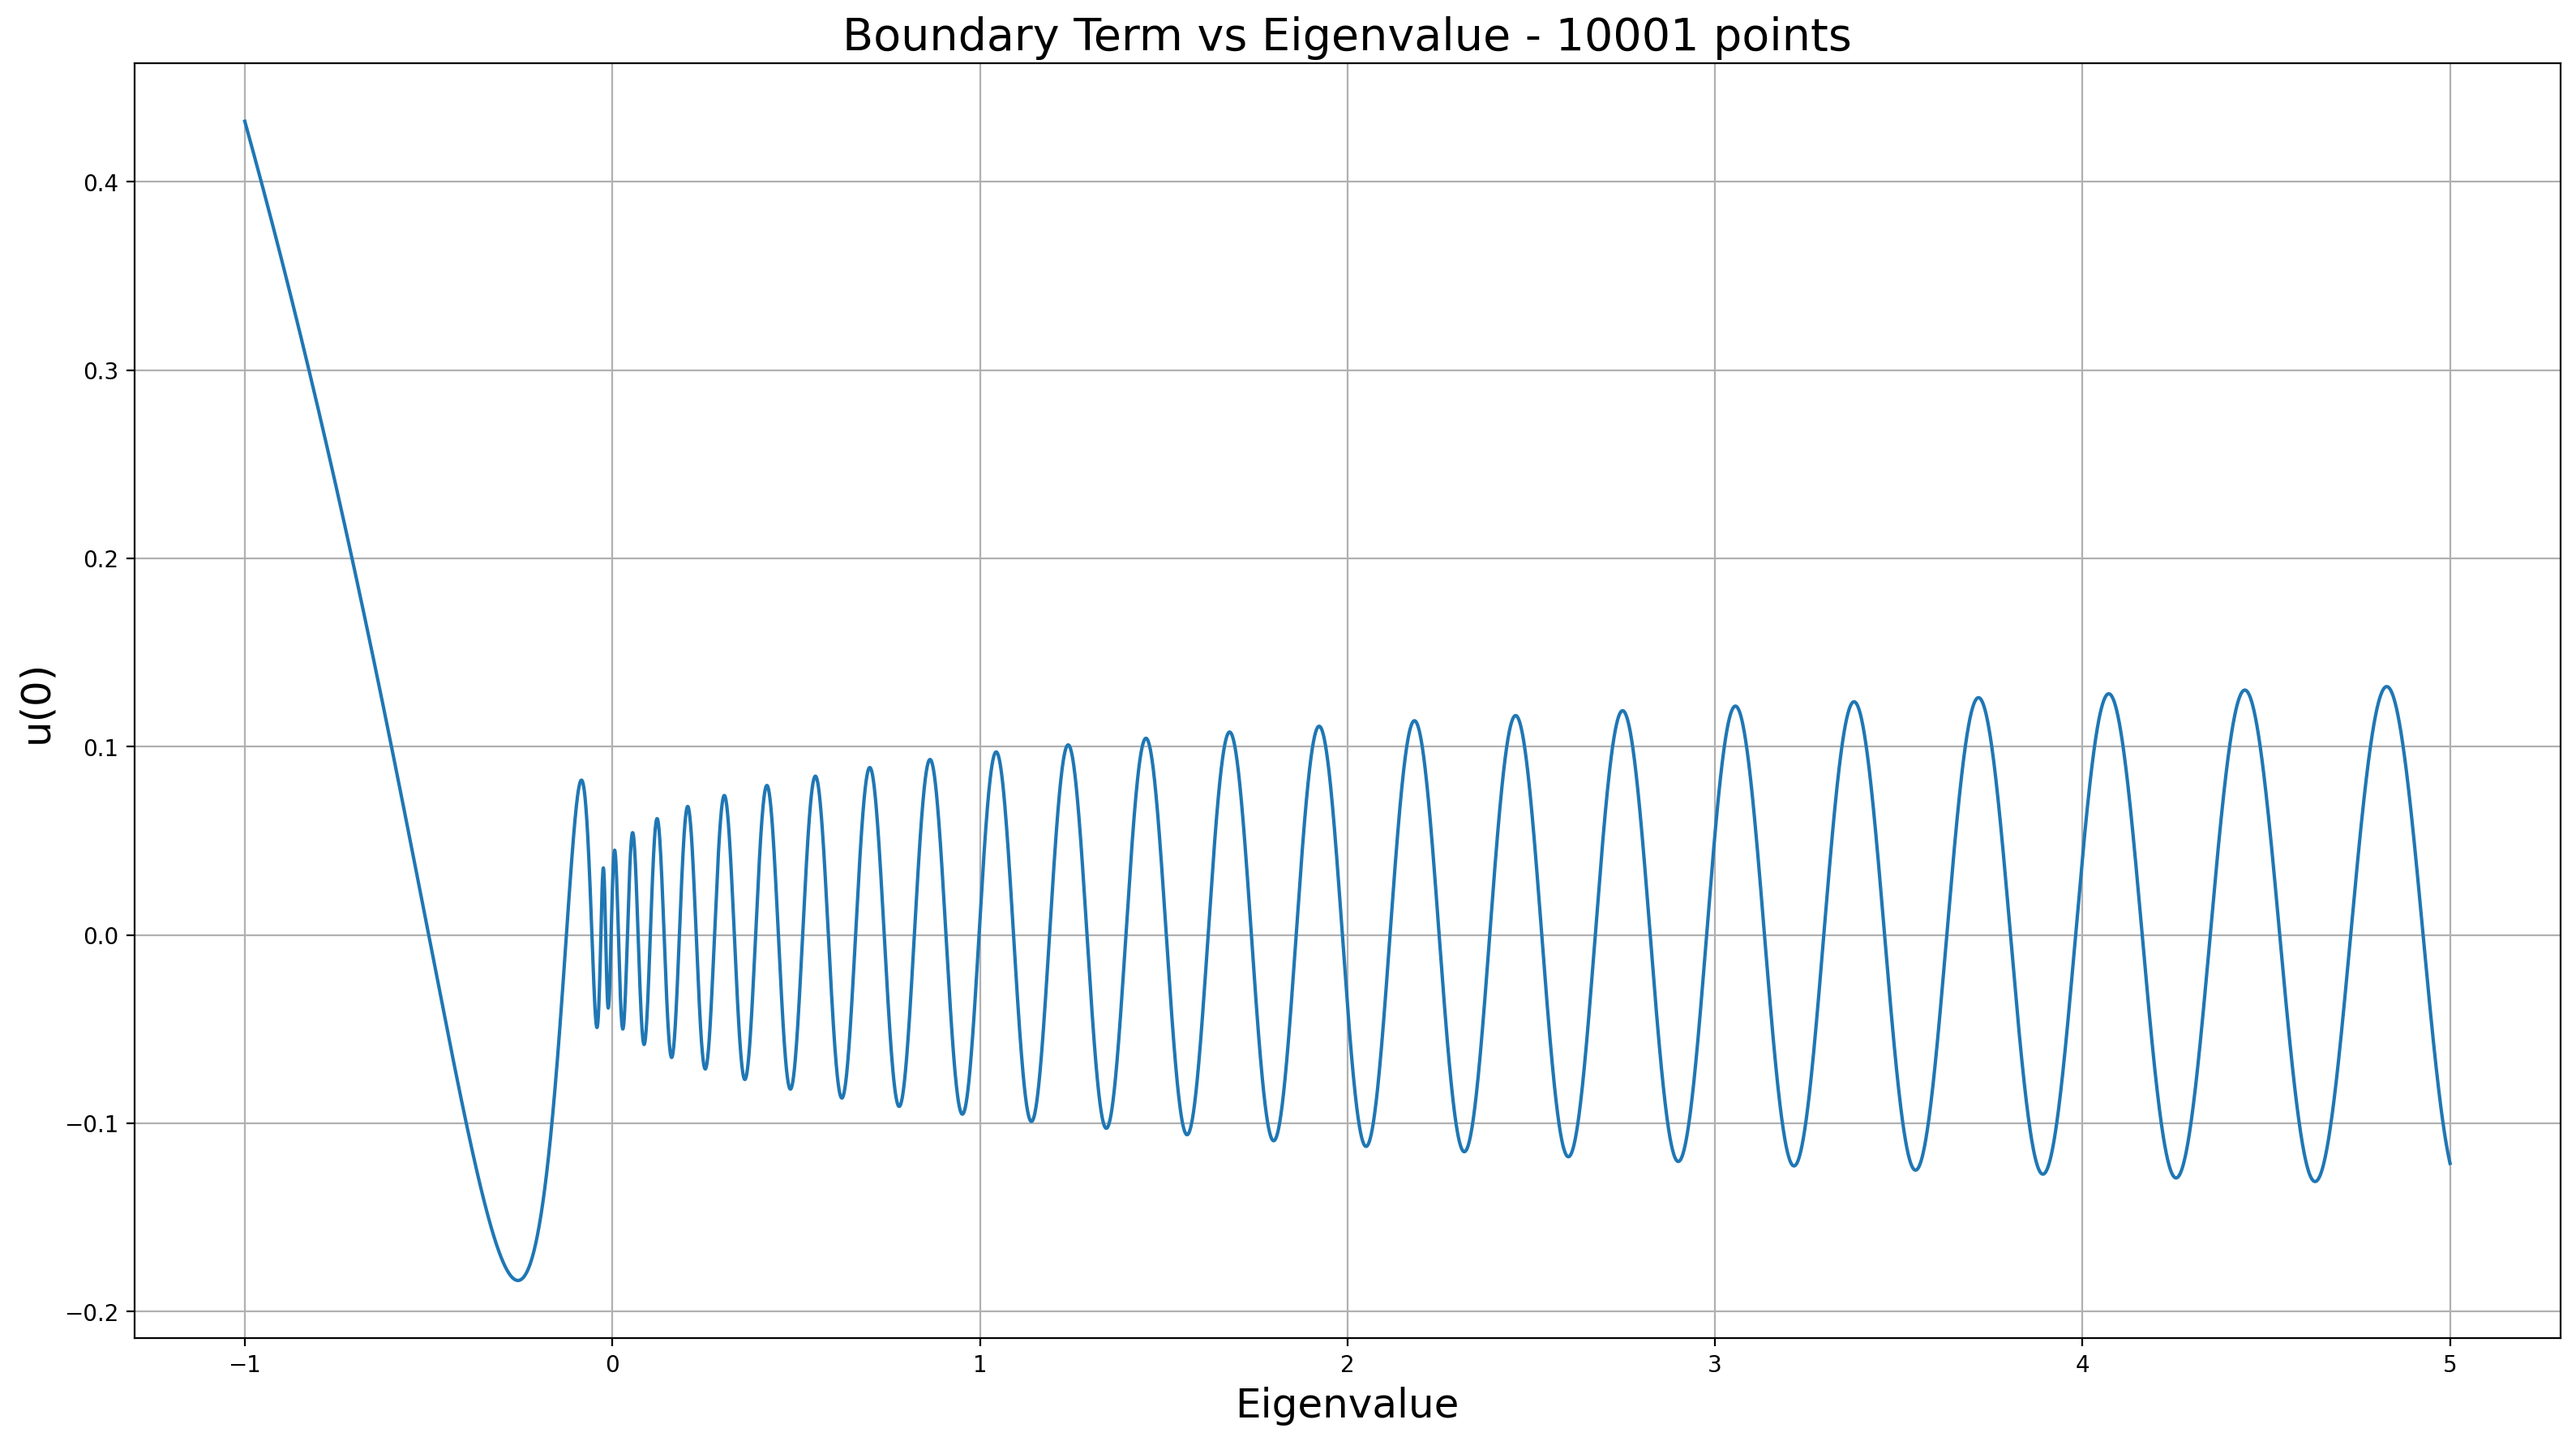
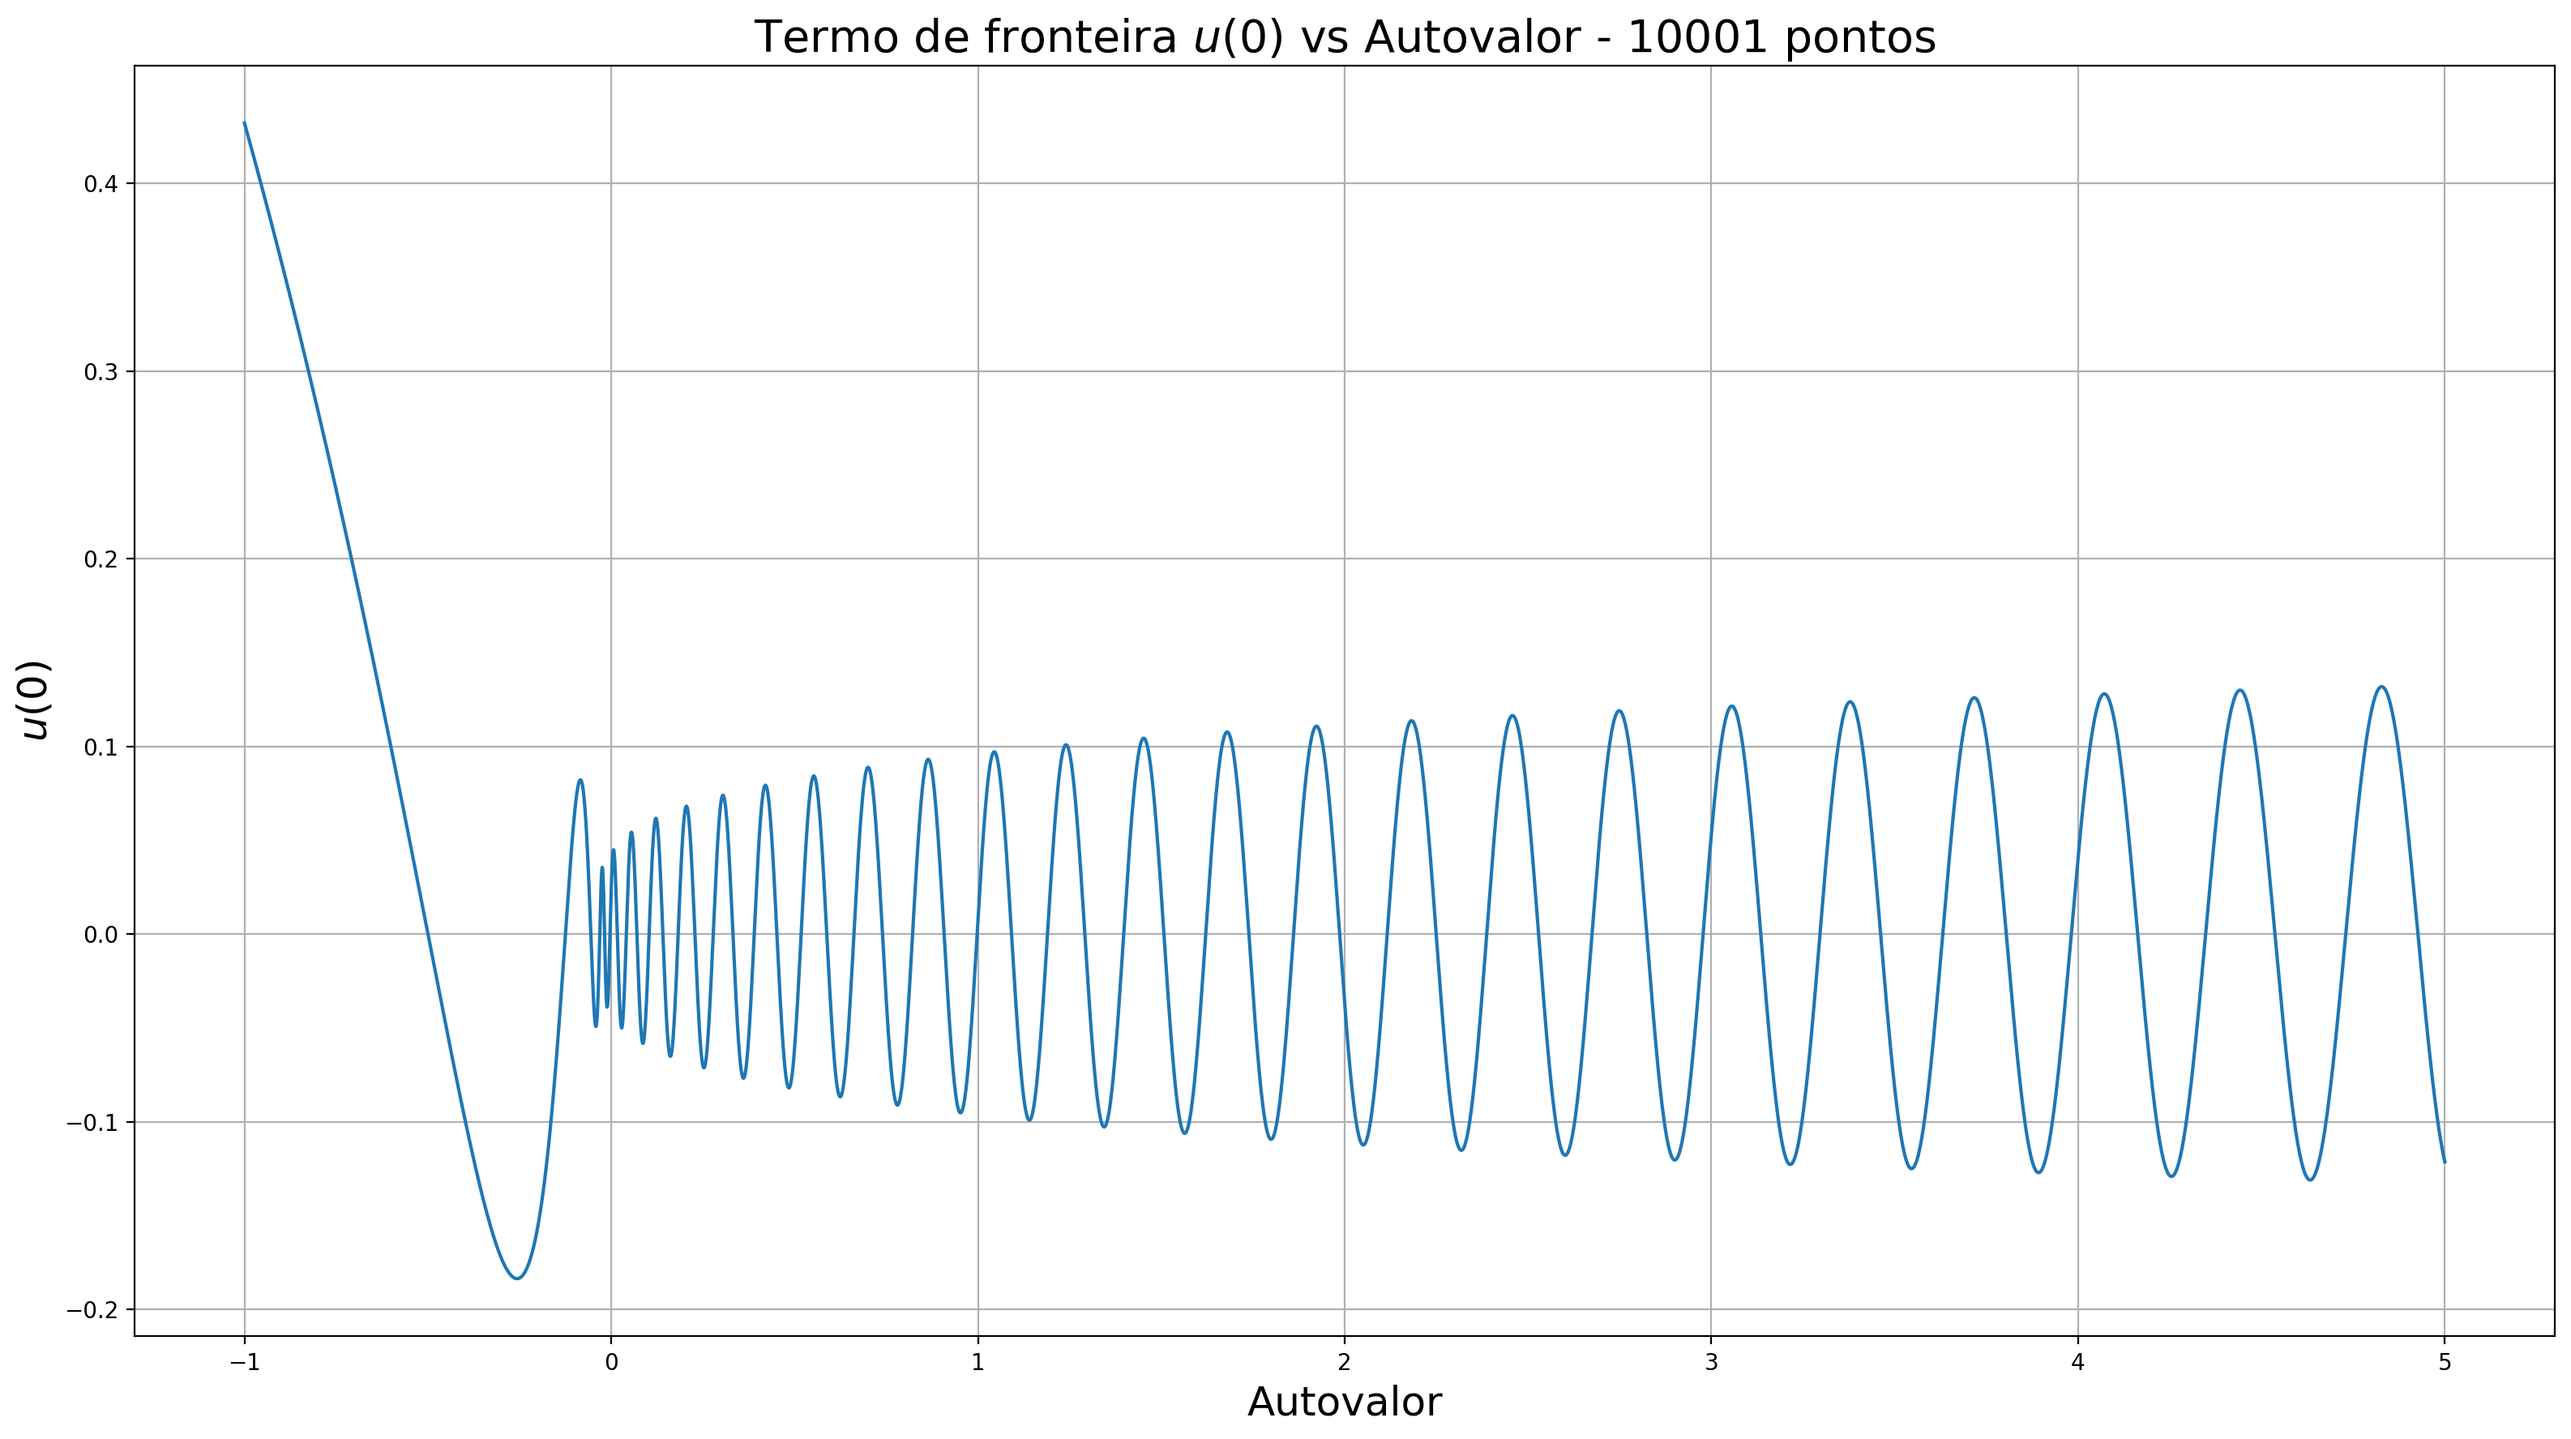
Organização

diff --git a/HeliumAtom/Plotting.py b/HeliumAtom/Plotting.py
@@ -4,14 +4,42 @@ from matplotlib import pyplot as plt
 
 #%% Wave function / Probability
 if 1:
-    r, u = np.genfromtxt('Hydrogen_u.dat', unpack = 'True', skip_footer=400000)
+    r, u = np.genfromtxt('/home/lordemomo/Documentos/Density_Functional_Theory/HeliumAtom/Hydrogen_u.dat', unpack = 'True')
     prob = u**2/(2*np.pi)
+    
+    r2, potentialU = np.genfromtxt('/home/lordemomo/Documentos/Density_Functional_Theory/HeliumAtom/Hydrogen_Potential_U.dat', unpack = 'True')
     
     theta = np.linspace(0,2*np.pi,50)
     A, B = np.meshgrid(theta, r)
     c = np.zeros(A.shape)
     
     T, probabilidade_2D = np.meshgrid(theta, prob)
+    
+#%%
+    plt.figure(figsize=(16,4.5))
+    plt.title('Função de onda radial $u(r) = r\cdot\psi(r)$', fontsize=20)
+    plt.plot(r, 2*r*np.exp(-r), label='Exata', linewidth=4)
+    plt.plot(r, u, ':', label='Calculada', linewidth=4, color='red')
+    plt.xlabel('$r$', fontsize=18)
+    plt.ylabel('$u(r)$', fontsize=18)
+    plt.xlim(0,10)
+    plt.xticks(np.arange(0, 11, step=1))
+    plt.legend(loc='best', fontsize=14)
+    plt.grid()
+    plt.savefig('/home/lordemomo/Documentos/Density_Functional_Theory/HeliumAtom/img/RadialWaveFunction.png', dpi=200, bbox_inches='tight')
+    
+#%%
+    plt.figure(figsize=(16,4.5))
+    plt.title('Potencial $U(r) = r\cdot V_H(r)$', fontsize=20)
+    plt.plot(r, -(r+1)*np.exp(-2*r)+1, label='Exato', linewidth=4)
+    plt.plot(r, potentialU, ':', label='Calculado', linewidth=4, color='red')
+    plt.xlabel('$r$', fontsize=18)
+    plt.ylabel('$U(r)$', fontsize=18)
+    plt.xlim(0,10)
+    plt.xticks(np.arange(0, 11, step=1))
+    plt.legend(loc='best', fontsize=14)
+    plt.grid()
+    plt.savefig('/home/lordemomo/Documentos/Density_Functional_Theory/HeliumAtom/img/RadialPotential.png', dpi=200, bbox_inches='tight')
 
 #%%
     figure, ax = plt.subplots(1, subplot_kw=dict(projection='polar'))
@@ -40,14 +68,14 @@ if 1:
     plot_all = 1
     plot_energy_levels = 1
     
-    eigenvalues, u0s = np.genfromtxt('Hydrogen_u0s.dat', unpack = 'True')
+    eigenvalues, u0s = np.genfromtxt('/home/lordemomo/Documentos/Density_Functional_Theory/HeliumAtom/Hydrogen_u0s.dat', unpack = 'True')
     
     plt.figure(figsize=(16,9))
-    plt.title('Boundary Term vs Eigenvalue - '
-              +str(np.size(eigenvalues))+' points', fontsize=20)
+    plt.title('Termo de fronteira $u(0)$ vs Autovalor - '
+              +str(np.size(eigenvalues))+' pontos', fontsize=20)
     plt.plot(eigenvalues, u0s)
-    plt.xlabel('Eigenvalue', fontsize=18)
-    plt.ylabel('u(0)', fontsize=18)
+    plt.xlabel('Autovalor', fontsize=18)
+    plt.ylabel('$u(0)$', fontsize=18)
     plt.grid()
     
     spec='global'
@@ -71,22 +99,5 @@ if 1:
             spec='unknown'
     
     plt.tight_layout()
-    plt.savefig('img/BoundaryTerm_vs_Eigenvalue--'+spec+'.png',
+    plt.savefig('/home/lordemomo/Documentos/Density_Functional_Theory/HeliumAtom/img/BoundaryTerm_vs_Eigenvalue--'+spec+'.png',
                 dpi=200, bbox_inches='tight')
-    
-#%%
-if 1:
-    
-    delta = 0.00001
-    j_max = 300000
-    r_max = 30
-    
-    j = np.linspace(1,j_max,j_max)
-    
-    rp = r_max/(np.exp(j_max*delta)-1)
-    rj = rp*(np.exp(j*delta)-1)
-    
-    plt.figure(figsize=(16,9))
-    plt.plot(j, rj)
-    plt.grid()
-    plt.show()
